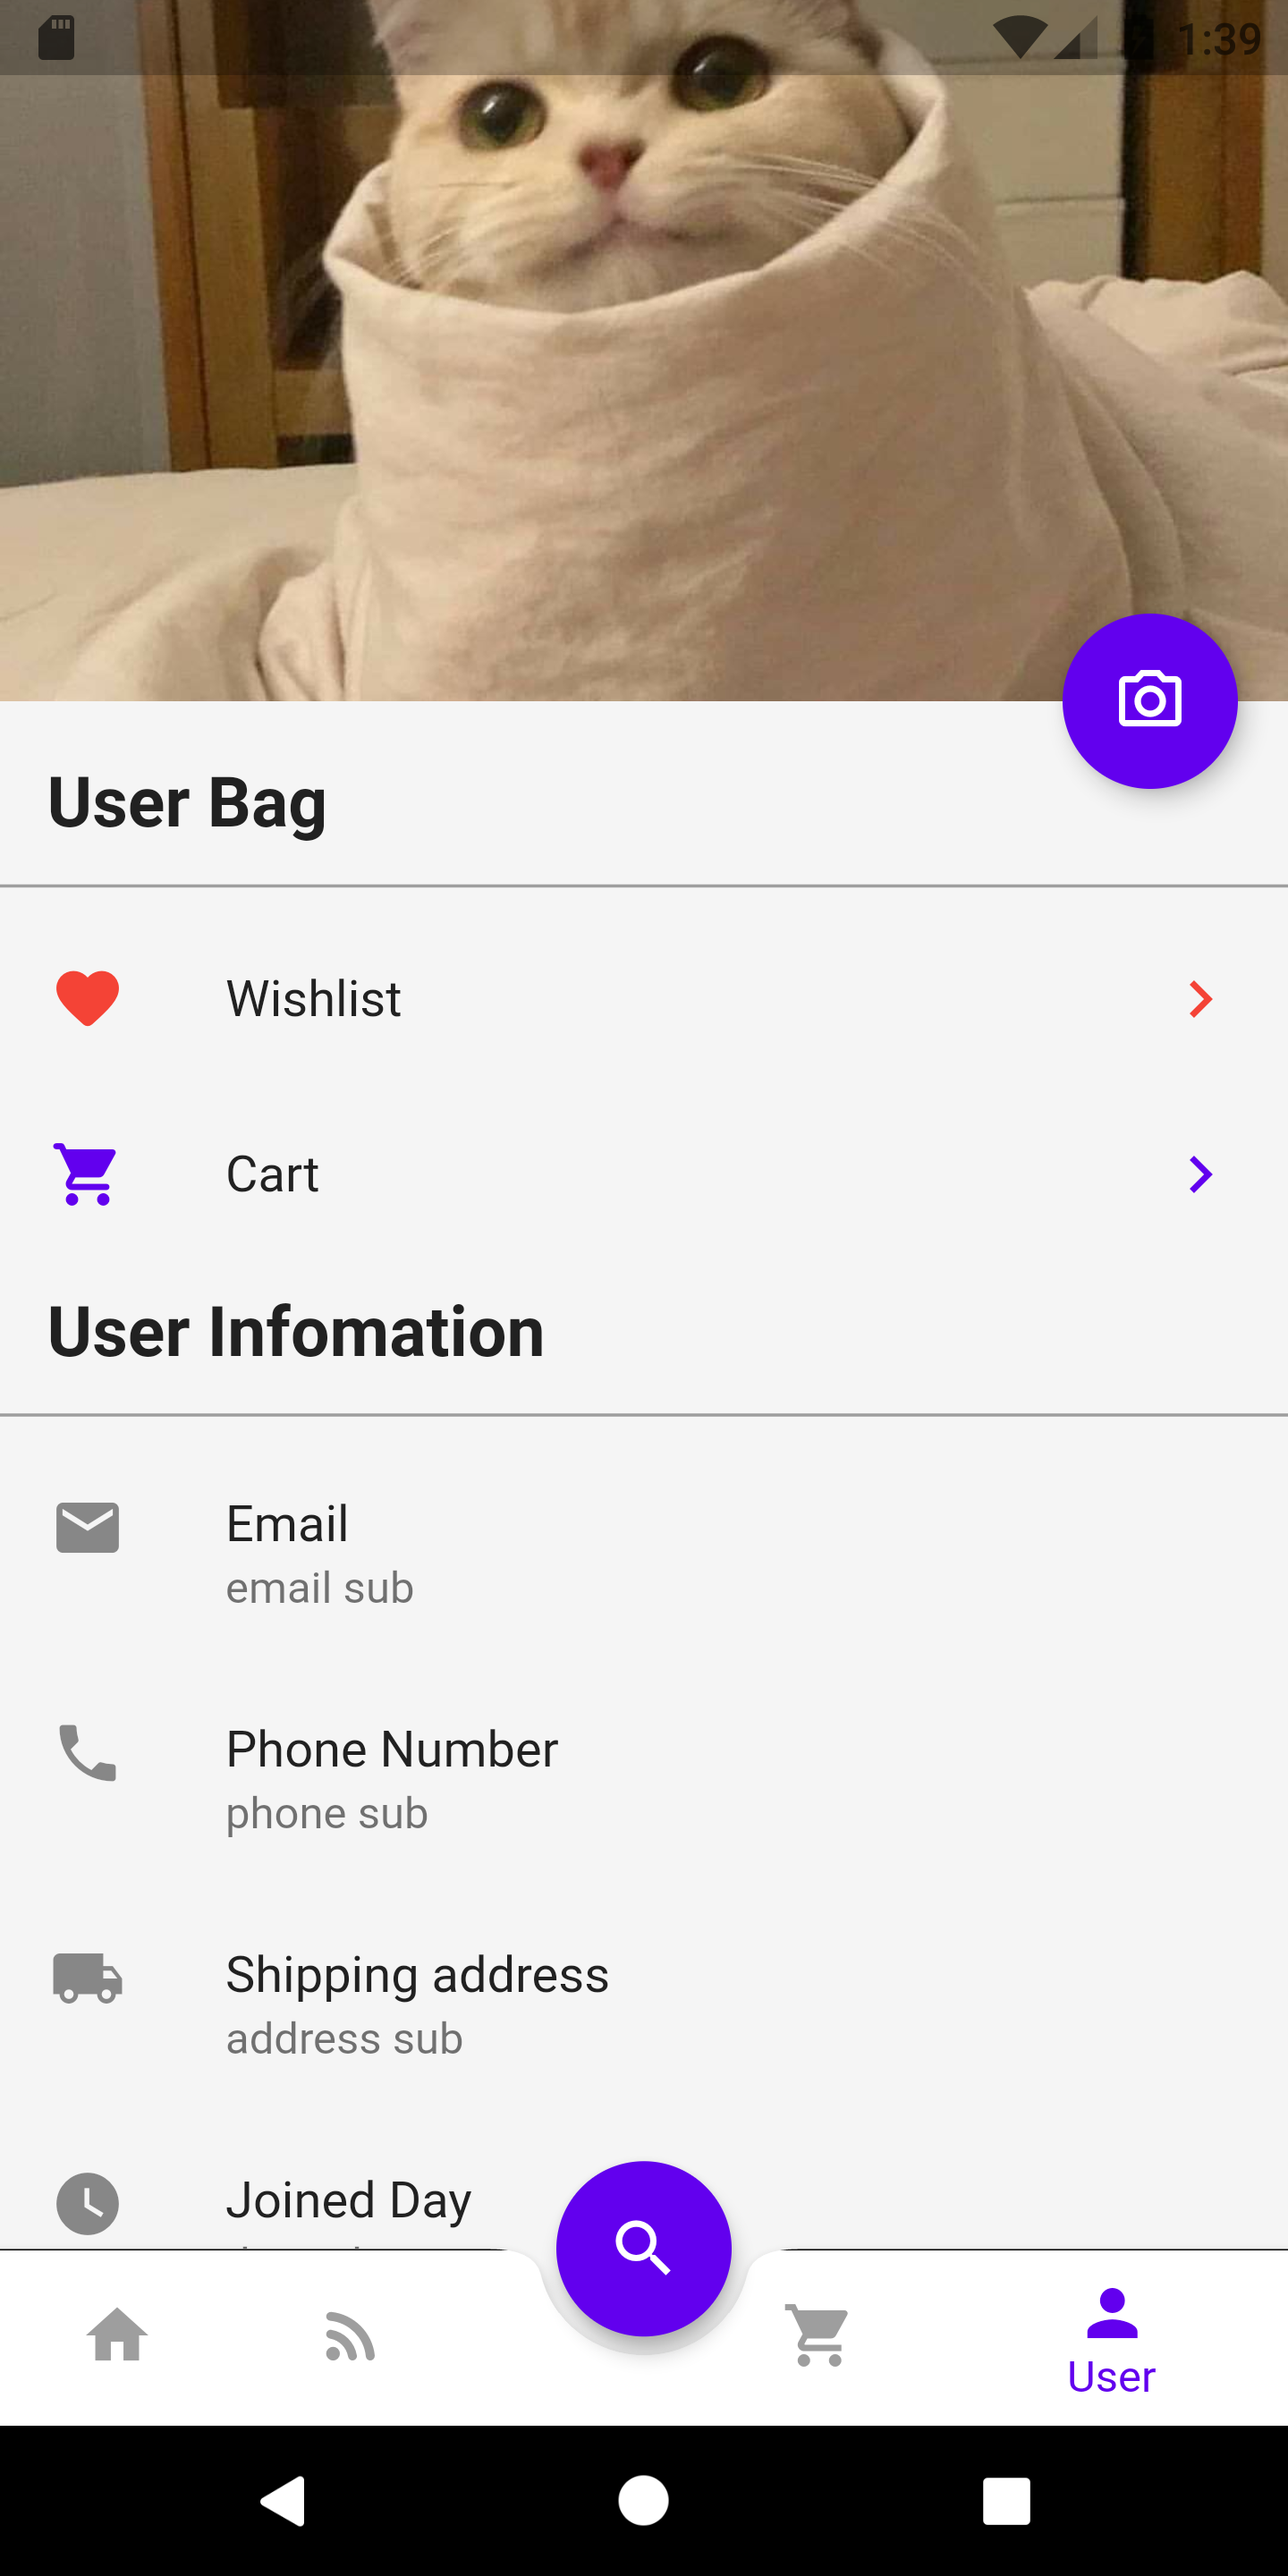
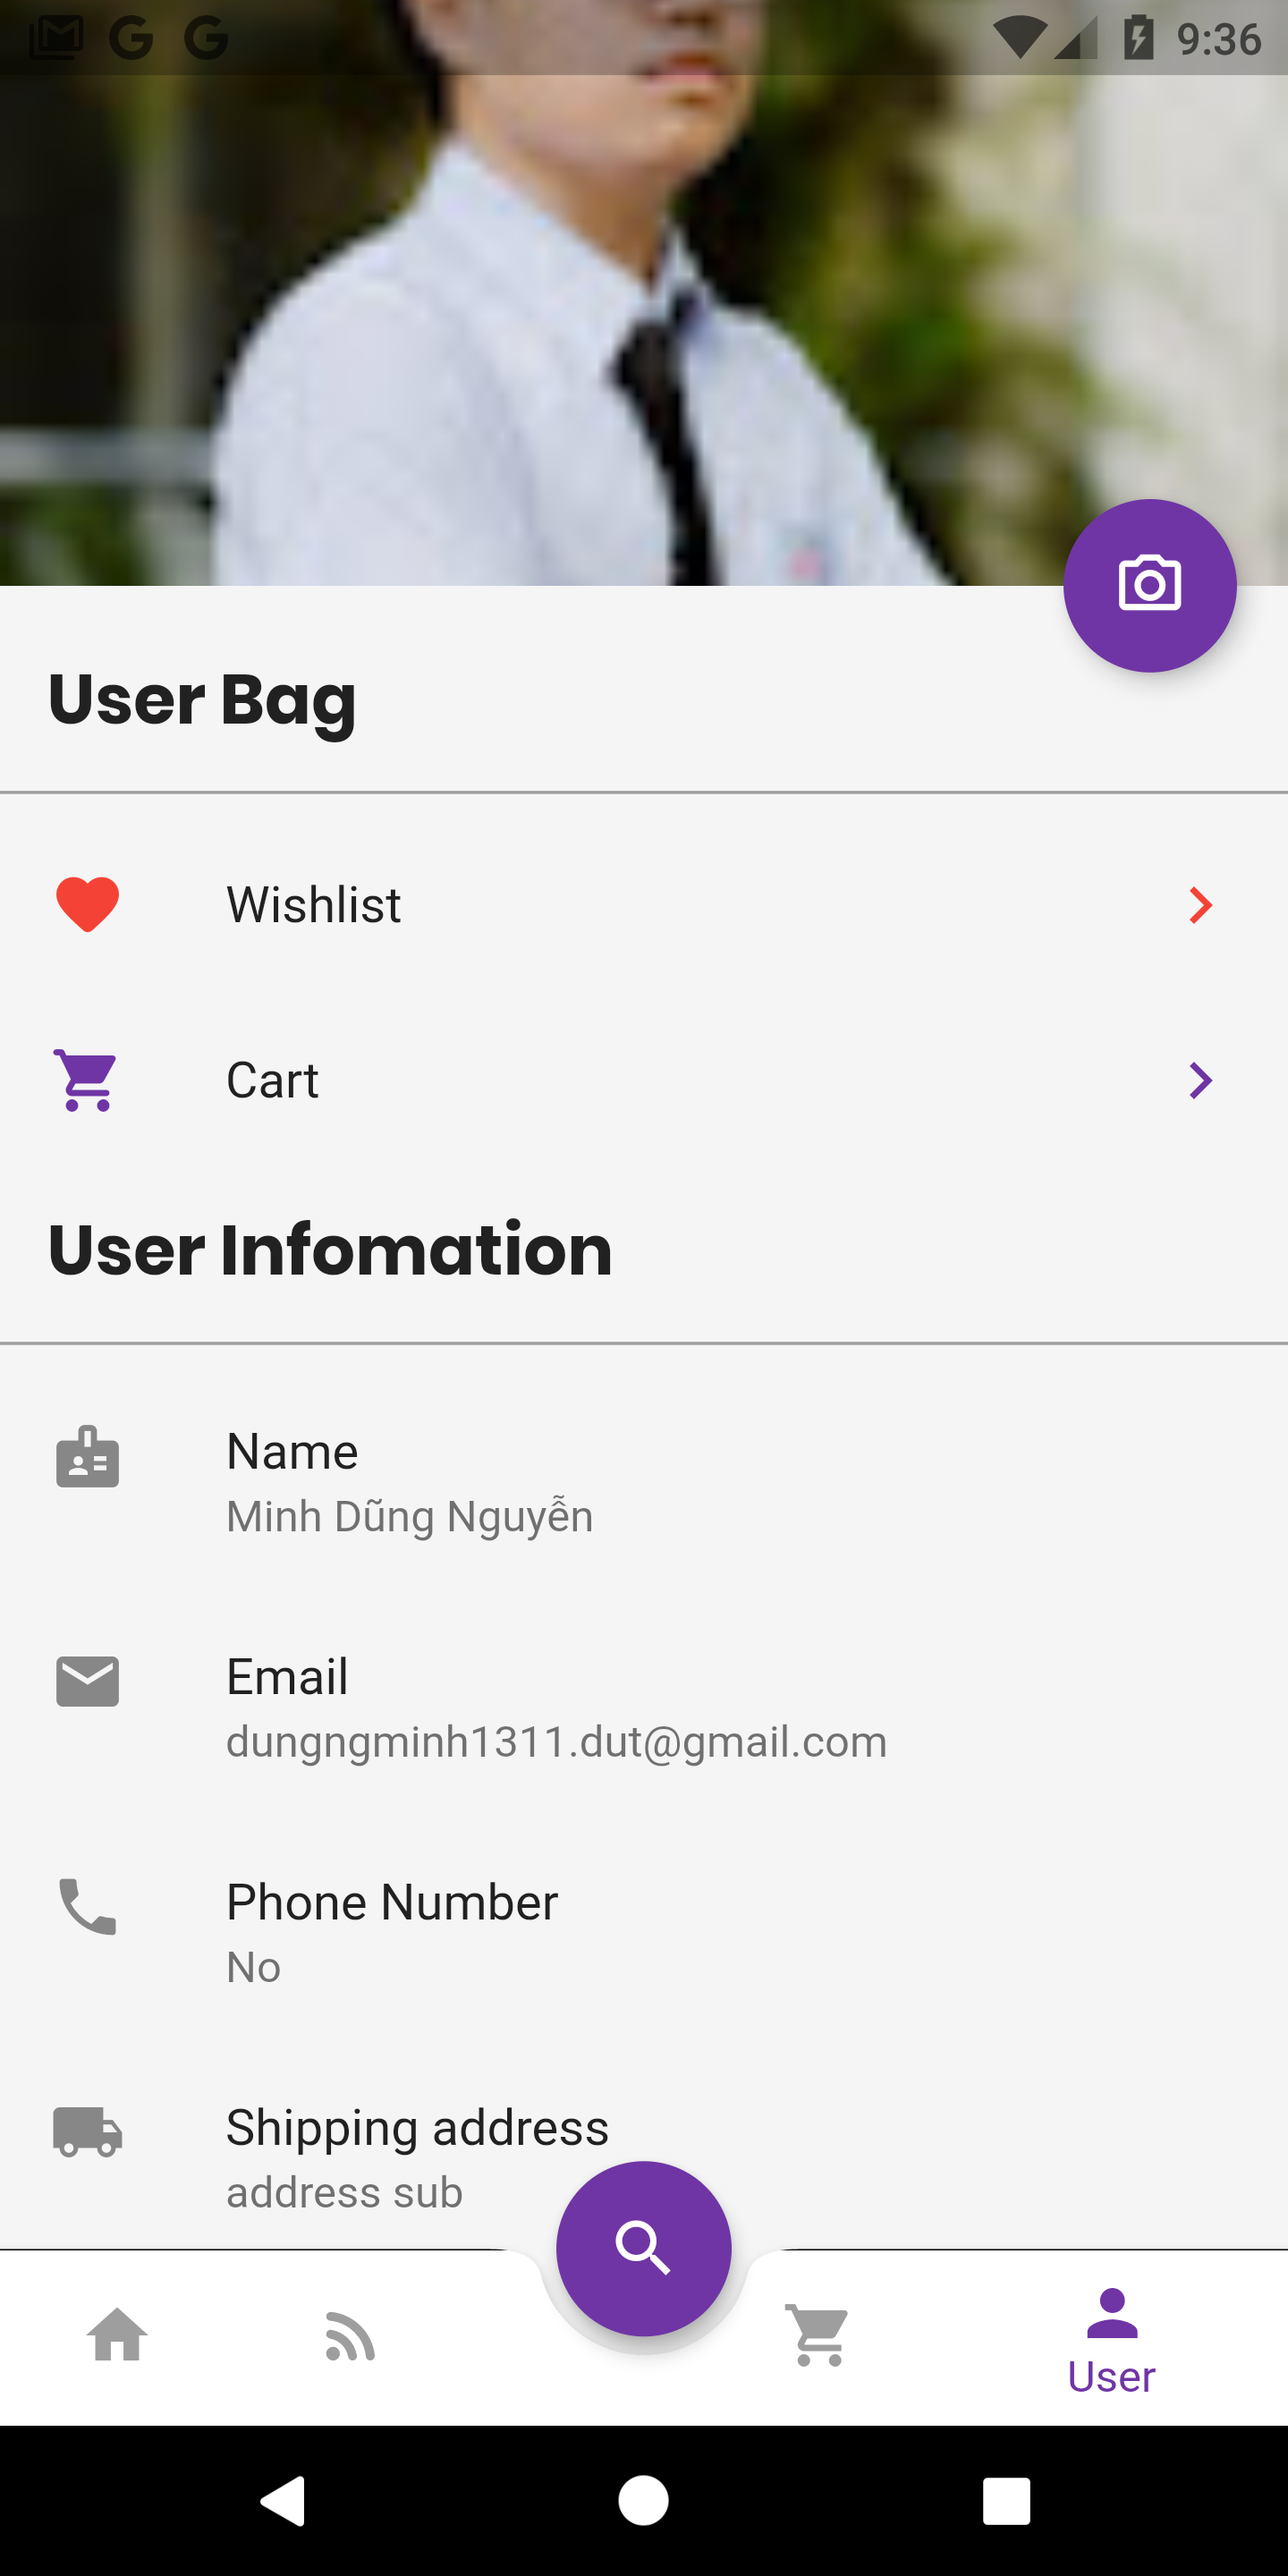
update more shots from feature leak, Readme.md

diff --git a/README.md b/README.md
@@ -1,16 +1,73 @@
-# ecommerce
+# Ecommerce App
 
-In develop
+A ecommerce app using Flutter, Firebase for backend and Stripe for payment module
 
-## Getting Started
+In development (The project was delayed from July 26 due to exam preparation reasons)
 
-This project is a starting point for a Flutter application.
+## Features
 
-A few resources to get you started if this is your first Flutter project:
+- Flutter using Provider for state management
+- Firebase authentication, Firestore, Firebase Storage
+- Stripe package in payment module
 
-- [Lab: Write your first Flutter app](https://flutter.dev/docs/get-started/codelab)
-- [Cookbook: Useful Flutter samples](https://flutter.dev/docs/cookbook)
+## Directory structure
 
-For help getting started with Flutter, view our
-[online documentation](https://flutter.dev/docs), which offers tutorials,
-samples, guidance on mobile development, and a full API reference.
+```
+project
+│   README.md
+│
+└───assets
+│
+│
+└───lib
+│   └───screens                 <- [UI]
+│   │   │   ...
+│   │   │   ...
+│   │
+│   └───models                  <- [Model]
+│   |    │   ...
+│   |    │   ...
+│   |
+|   └───provider                <- [Provider]
+│   |    │   ...
+│   |    │   ...
+│   |
+|   └───services                <- [Service]
+│   |    │   firebase_authentication <- [for auth module]
+│   |    │   firebase_storage  <- [for storing images]
+|   │    |   firebase_firestore <- [for storing information]
+│   |
+|   └───ultis                   <- [Support fille (theme, setting,..]
+│   |    │   ...
+│   |    │   ...
+│   |
+|   └───widget                  <-[reused widget]
+│   |    │   ...
+│   |    │   ...
+│   |
+└───screenshots
+    |    │   ...
+    |    │   ...
+    │   ...
+```
+
+## Screenshots
+
+### (update to 26/7/2021, some new photos will be updated later, sorry for not fully updated)
+
+|                                 |                                  |
+| :-----------------------------: | :------------------------------: |
+|   ![](screenshots/login.png)    |   ![](screenshots/signup.png)    |
+| ![](screenshots/home_light.png) | ![](screenshots/home2_light.png) |
+| ![](screenshots/home_dark.png)  | ![](screenshots/home2_dark.png)  |
+|  ![](screenshots/feed_all.png)  |  ![](screenshots/feed_cate.png)  |
+|    ![](screenshots/cart.png)    |   ![](screenshots/detail.png)    |
+|  ![](screenshots/favorite.png)  |    ![](screenshots/user.png)     |
+
+## Contributors ✨
+
+<table>
+  <tr>
+    <td align="center"><a> <img src="https://avatars.githubusercontent.com/u/63831488?v=4?s=100" width="100px;" alt=""/><br /><sub><b>Nguyễn Minh Dũng</b></sub></a><br /><a href="https://github.com/dungngminh/ecommerce/commits?author=dungngminh" title="Code">💻</a> <a href="https://github.com/dungngminh/ecommerce/commits?author=dungngminh" title="Documentation">📖</a> <a 
+  </tr>
+</table>
